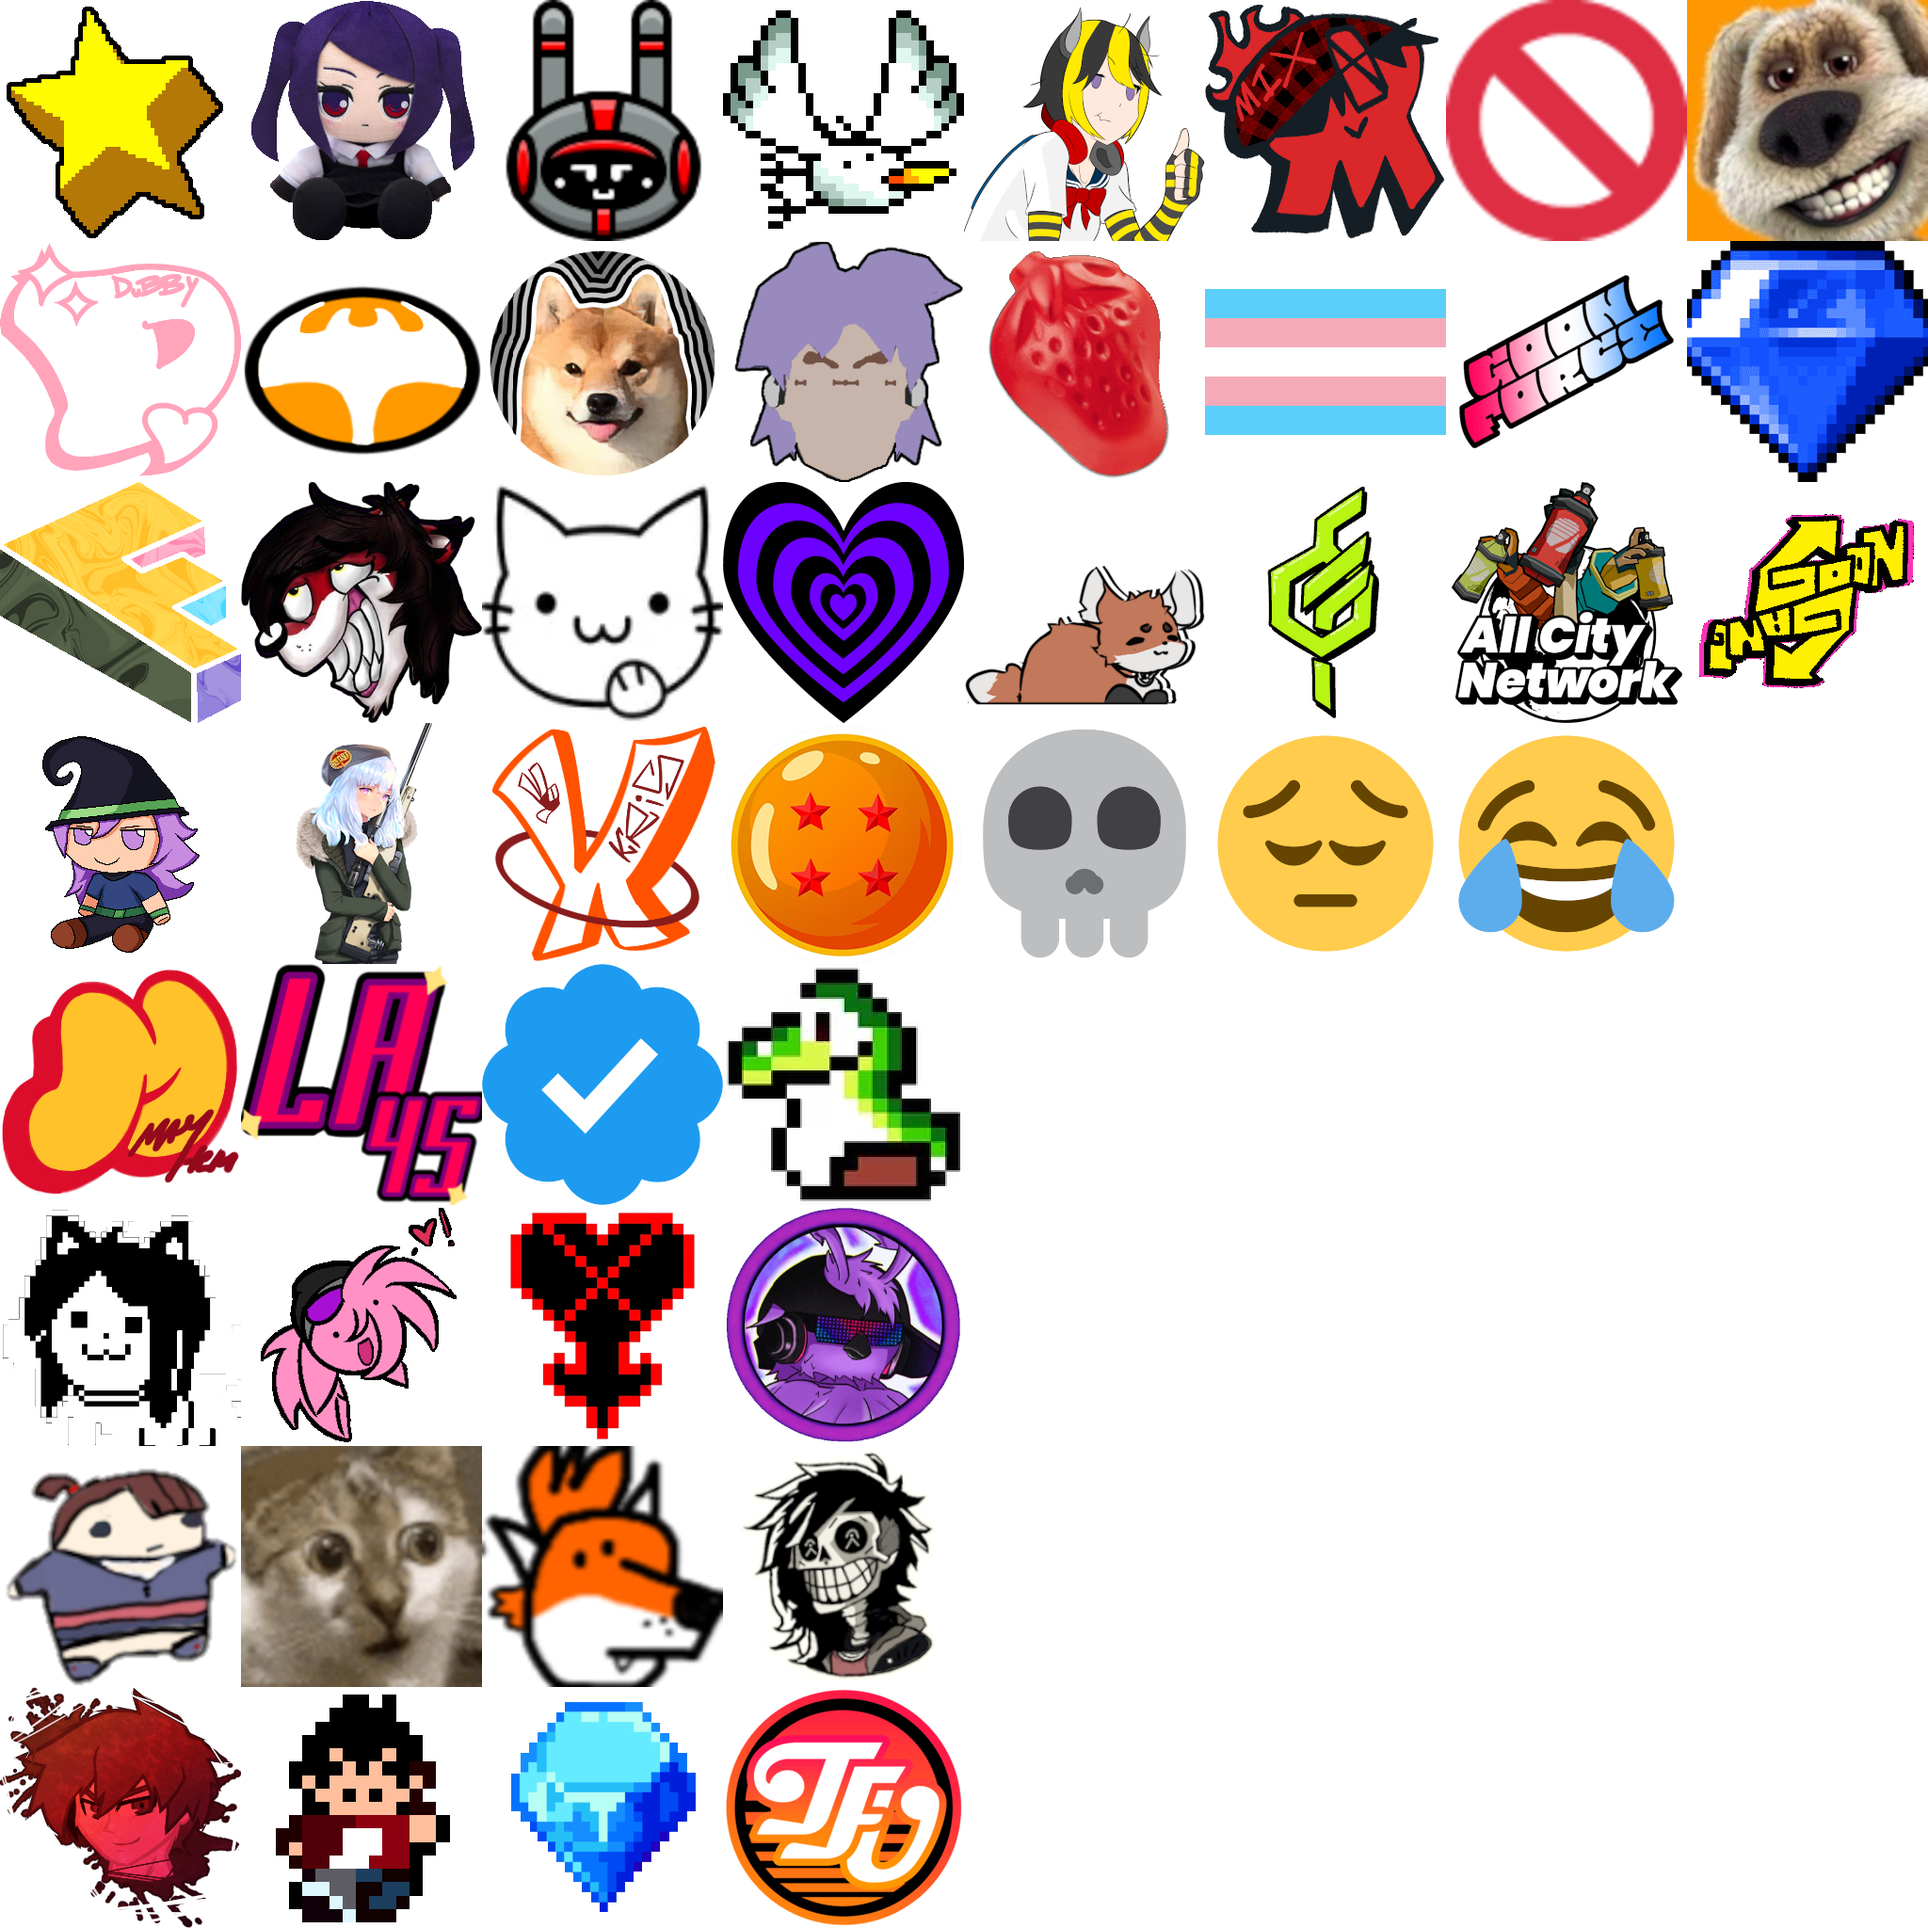
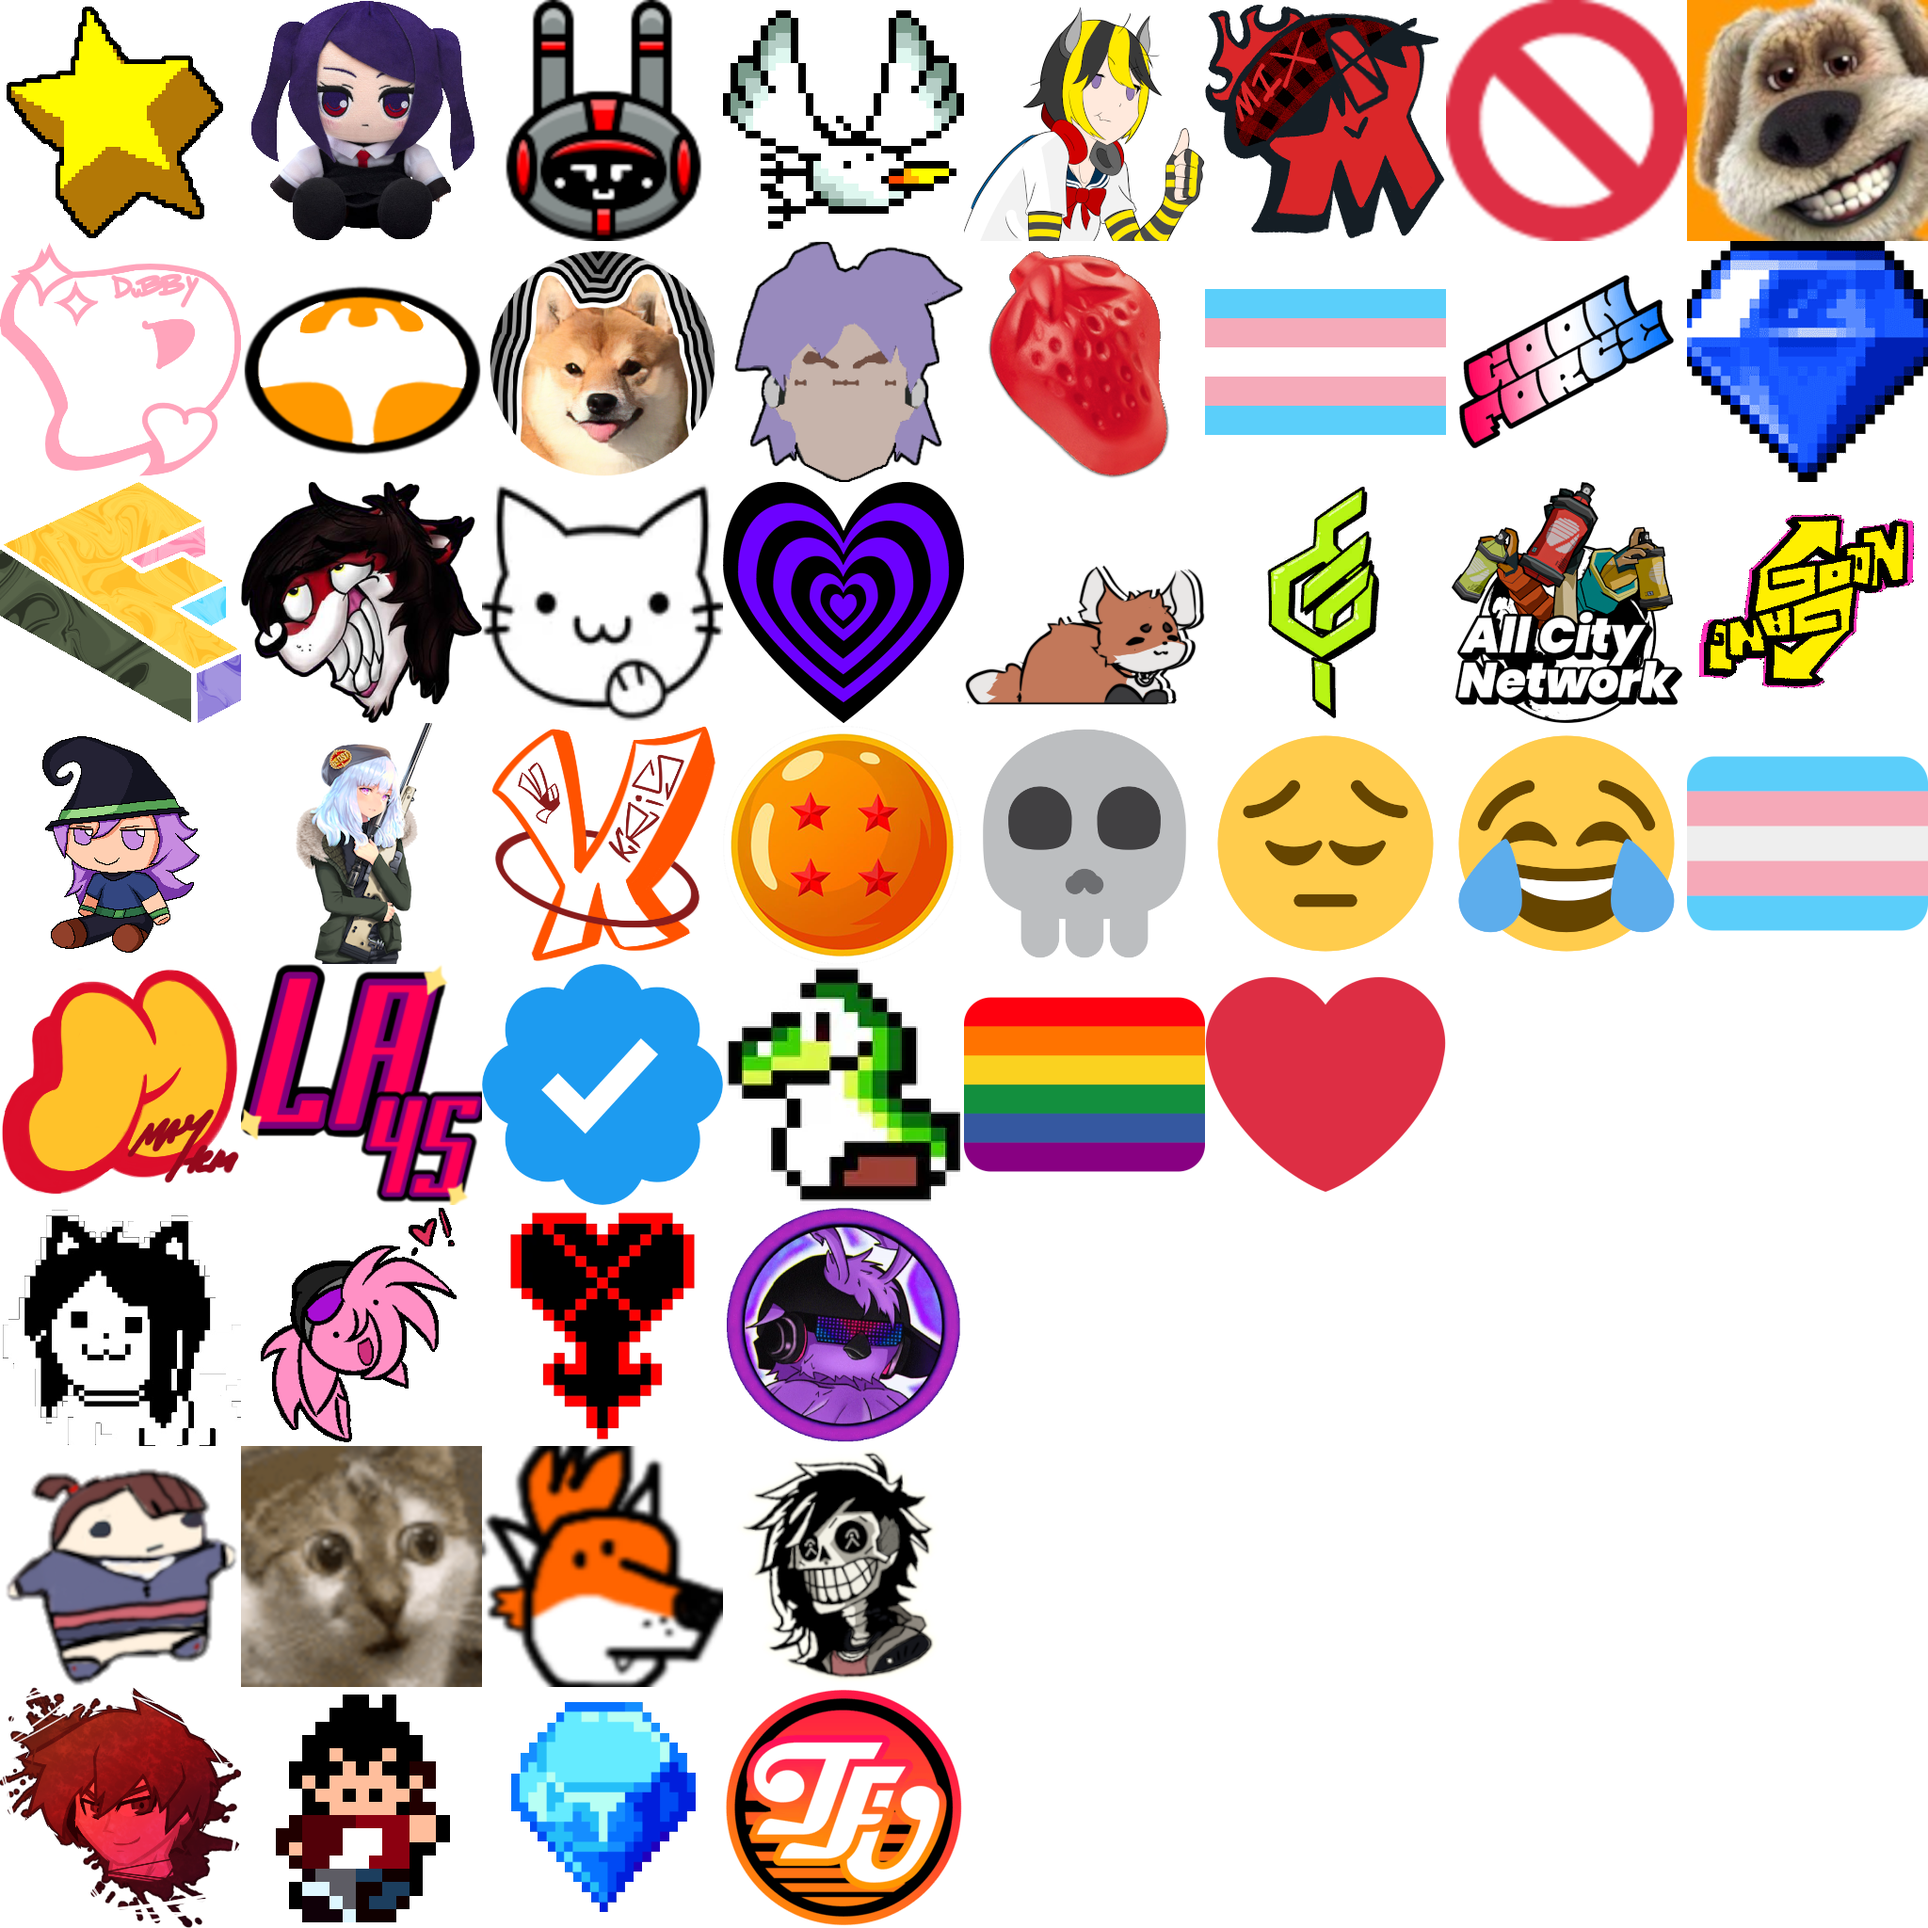
add new emojis

Changed region(s): [[0.5, 0.5, 0.75, 0.625], [0.875, 0.375, 1.0, 0.5]]

diff --git a/BombRushMP.Plugin/Emojis.cs b/BombRushMP.Plugin/Emojis.cs
@@ -13,7 +13,13 @@ namespace BombRushMP.Plugin
             { ":car:", 25 },
             { ":akkowot:", 24 },
             { ":krehs:", 26 },
-            { ":ben:", 38 }
+            { ":ben:", 38 },
+            { ":skull:", 34 },
+            { ":pensive:", 46 },
+            { ":joy:", 47 },
+            { ":trans:", 48 },
+            { ":pride:", 49 },
+            { ":heart:", 50 },
         };
     }
 }
